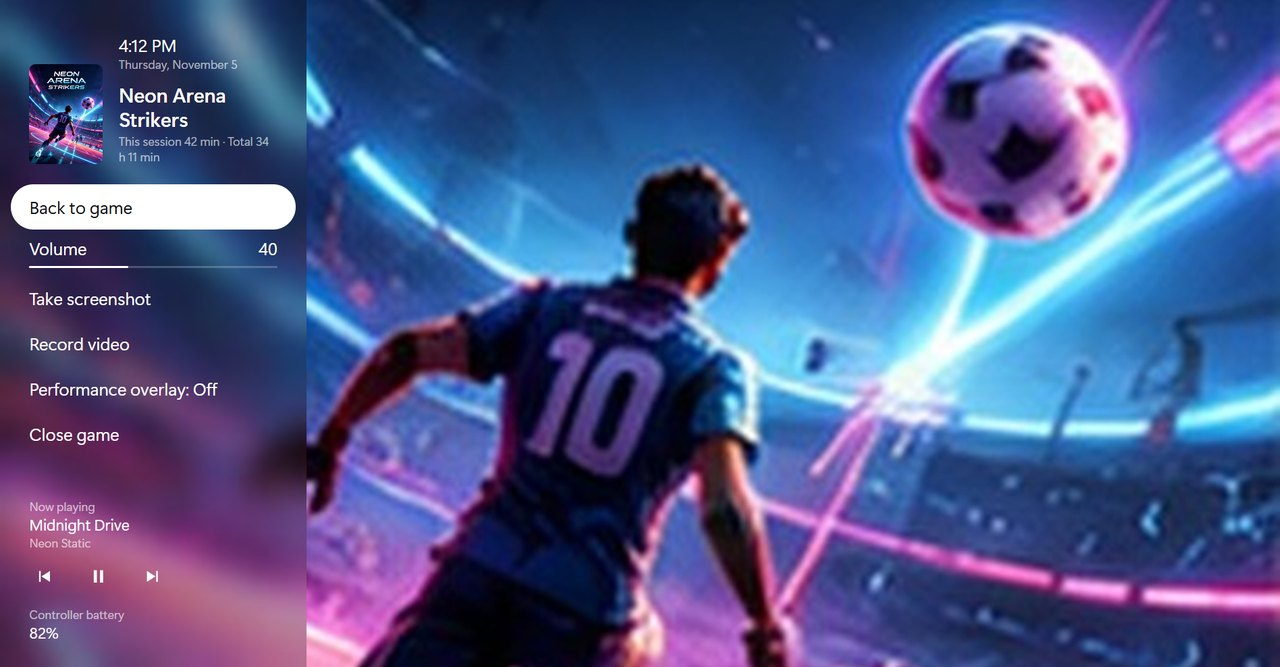
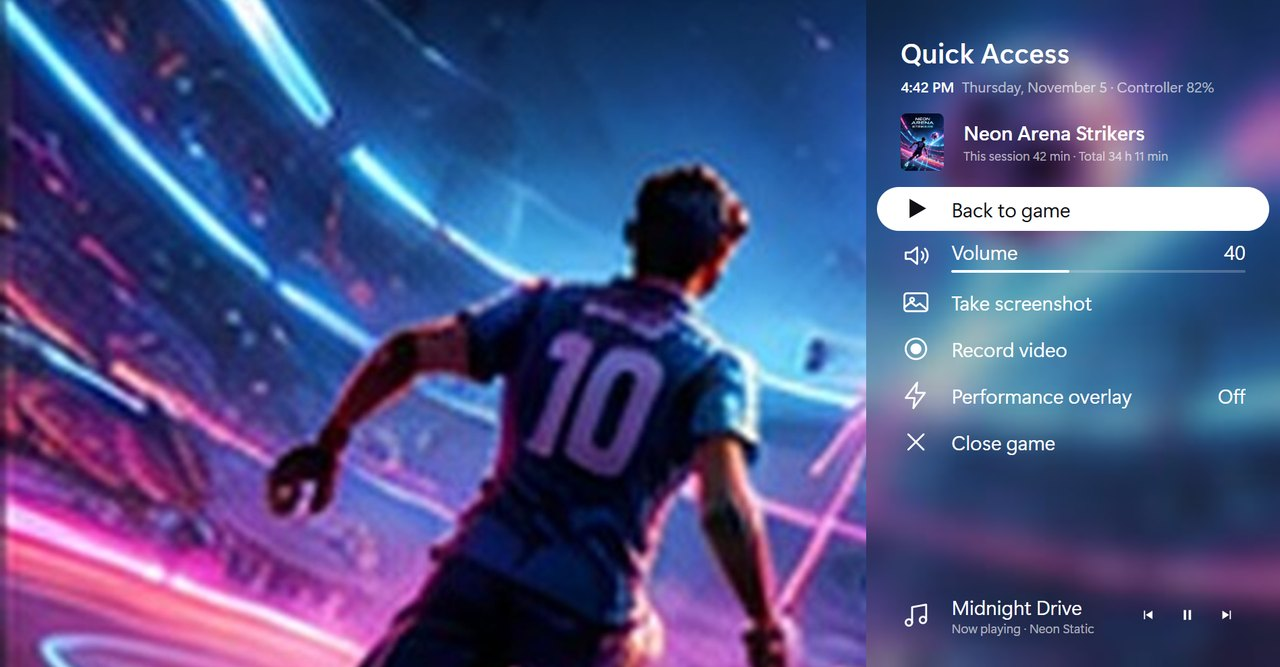
In-game menu is Quick Access: same panel, on the right, sliding from the right
The menu over a game now uses Quick Access's layout, sizes and icons: the time and controller battery under its title,
the game with its cover and playtime, then Back to game, volume, screenshot, recording, the performance overlay and
Close game, with the song at the bottom. The window sits at the right edge at Quick Access's width.

diff --git a/app/overlay.html b/app/overlay.html
@@ -5,48 +5,55 @@
 <title>Ultra Front End Overlay</title>
 <link rel="icon" href="icon.png">
 <style>
+  /* The in-game menu is Quick Access over a game: the frontend's own Quick Access panel (styles.css, .sp-*), on the right of
+     the screen, with the game's own choices on top. 1rem is 1vh of the screen while the window is 62% of the screen height
+     wide (as Quick Access is), and less when a portrait screen makes it narrower, so the panel's contents scale to fit. */
   * { box-sizing: border-box; }
-  /* 1rem is 1vh while the window is 46% of the screen height wide (as it is beside a landscape game), and less when a
-     portrait screen makes it narrower, so the panel's contents scale to fit */
-  html { font-size: min(1vh, 100vw / 45.8); }
+  html { font-size: min(1vh, 100vw / 62); }
   html, body { height: 100%; margin: 0; overflow: hidden; cursor: none; }
   body.glass { background: #1c1d1f center / 100% 100% no-repeat; }  /* the game behind, frosted, kept up to date (frontend.py) */
-  body { background: #1c1d1f; color: #fff; font-family: "Segoe UI Variable Display", "Segoe UI", sans-serif; opacity: 0; transition: opacity .16s ease-out; }
+  body { background: #1c1d1f; color: #fff; font-family: "Segoe UI Variable Display", "Segoe UI", sans-serif; opacity: 0; transition: opacity .16s ease-out;
+    --quiet: rgba(255, 255, 255, .62); --ink: #0e1014; }
   body.on { opacity: 1; }
-  #panel { position: absolute; inset: 0; padding: 5rem 1.6rem 3.6rem; display: flex; flex-direction: column; }  /* the window itself slides (frontend.py) */
-  #top { display: flex; gap: 2.4rem; padding: 0 2.8rem; align-items: flex-end; margin-bottom: 3rem; }
-  #cover { width: 11rem; height: 15rem; object-fit: cover; border-radius: 1rem; background: rgba(255, 255, 255, .06); flex: none; }
-  #head { min-width: 0; flex: 1; }
-  #clock { font-size: 2.6rem; }
-  #date { font-size: 1.8rem; color: rgba(255, 255, 255, .62); margin-bottom: 1.6rem; }
-  h1 { font-size: 3rem; line-height: 1.2; margin: 0; font-weight: 600; }
-  #stats { font-size: 1.8rem; color: rgba(255, 255, 255, .62); margin-top: .4rem; }
-  .item { display: flex; align-items: center; justify-content: space-between; min-height: 6.8rem; padding: .6rem 2.8rem; border-radius: 3.4rem; font-size: 2.6rem; }
-  .item.sel { background: #fff; color: #0e1014; }
-  .item.warn.sel { background: #dc2626; color: #fff; }  /* Close game: a red highlight, the label as the others */
-  .item small { font-size: 2.2rem; opacity: .7; }
-  .bar { height: .36rem; margin-top: 1rem; border-radius: .2rem; background: rgba(255, 255, 255, .22); }
+  #panel { position: absolute; inset: 0; padding: 5rem 1.6rem 4rem; display: flex; flex-direction: column; }  /* the window itself slides (frontend.py) */
+  h2 { margin: 0 3.6rem 1rem; font-size: 4.2rem; font-weight: 600; }
+  #time { margin: 0 3.6rem 2rem; font-size: 2.2rem; color: var(--quiet); white-space: nowrap; overflow: hidden; text-overflow: ellipsis; }
+  #time b { font-weight: 600; color: #fff; margin-right: 1.2rem; }
+  #game { display: flex; align-items: center; gap: 3rem; padding: .6rem 3.6rem 2.4rem; }
+  #cover { width: 6.4rem; height: 8.6rem; object-fit: cover; border-radius: .9rem; background: rgba(255, 255, 255, .06); flex: none; }
+  #game .text { min-width: 0; }
+  #title { font-size: 3rem; font-weight: 600; line-height: 1.2; overflow: hidden; display: -webkit-box; -webkit-line-clamp: 2; -webkit-box-orient: vertical; }
+  #stats { font-size: 1.9rem; color: var(--quiet); margin-top: .4rem; }
+  #menu { flex: 1; min-height: 0; display: flex; flex-direction: column; gap: .4rem; }
+  .row { display: flex; align-items: center; gap: 3rem; min-height: 6.6rem; padding: .6rem 3.6rem; border-radius: 3.8rem; font-size: 3rem; }
+  .row > svg { width: 4.6rem; height: 4.6rem; flex: none; }
+  .row.sel { background: #fff; color: var(--ink); }
+  .row.warn.sel { background: #dc2626; color: #fff; }  /* Close game: a red highlight, the label as the others */
+  .text { flex: 1; min-width: 0; }
+  .text > div { display: flex; justify-content: space-between; white-space: nowrap; overflow: hidden; text-overflow: ellipsis; }
+  .text small { display: block; font-size: 1.9rem; color: var(--quiet); white-space: nowrap; overflow: hidden; text-overflow: ellipsis; }
+  .row.sel .text small { color: rgba(14, 16, 20, .62); }
+  .value { font-weight: 400; }
+  .bar { height: .4rem; margin-top: .8rem; border-radius: .2rem; background: rgba(255, 255, 255, .22); }
   .bar i { display: block; height: 100%; border-radius: inherit; background: #fff; }
   .sel .bar { background: rgba(14, 16, 20, .2); }
-  .sel .bar i { background: #0e1014; }
-  .grow { flex: 1; min-width: 0; }
-  .grow > div:first-child { display: flex; justify-content: space-between; }
-  #info { margin-top: auto; padding: 2rem 2.8rem 0; display: flex; flex-direction: column; gap: 1.8rem; font-size: 2.3rem; }
-  #info small { display: block; font-size: 1.8rem; color: rgba(255, 255, 255, .62); }
-  #info div div { white-space: nowrap; overflow: hidden; text-overflow: ellipsis; }
-  #media { display: flex; gap: 1rem; margin: 1.2rem 0 0 -1.4rem; }
-  #media:empty { display: none; }
-  #media b { width: 7.2rem; height: 5.4rem; border-radius: 2.7rem; display: grid; place-items: center; }
-  #media svg { width: 2.8rem; height: 2.8rem; fill: currentColor; }
-  #media.sel b.cur { background: #fff; color: #0e1014; }
-  #foot { margin-top: 2.4rem; padding: 0 2.8rem; font-size: 1.7rem; color: rgba(255, 255, 255, .62); text-align: right; }
+  .sel .bar i { background: var(--ink); }
+  /* the song, at the bottom as in Quick Access: previous, play/pause, next */
+  .row.music { margin-top: auto; }
+  .row.music.sel { background: none; color: inherit; }
+  .row.music.sel .text small { color: var(--quiet); }
+  .mbtns { display: flex; gap: .6rem; flex: none; }
+  .mb { width: 5.4rem; height: 4.6rem; border-radius: 2.3rem; display: grid; place-items: center; }
+  .mb svg { width: 2.2rem; height: 2.2rem; fill: currentColor; }
+  .row.music.sel .mb.on { background: #fff; color: var(--ink); }
 </style>
 </head>
 <body>
 <div id="panel">
-  <div id="top"><img id="cover" alt="" onerror="this.style.visibility='hidden'"><div id="head"><div id="clock"></div><div id="date"></div><h1 id="title"></h1><div id="stats"></div></div></div>
+  <h2>Quick Access</h2>
+  <div id="time"></div>
+  <div id="game"><img id="cover" alt="" onerror="this.style.visibility='hidden'"><div class="text"><div id="title"></div><small id="stats"></small></div></div>
   <div id="menu"></div>
-  <div id="info"><div><div id="song"></div><div id="media"></div></div><div id="battery"></div></div>
 </div>
 <script>
 const $ = q => document.querySelector(q);
@@ -58,21 +65,38 @@ function frost(url) {
 }
 let items = [], sel = 0, busy = false;
 const hm = m => m < 60 ? `${m} min` : `${Math.floor(m / 60)} h ${m % 60} min`;
+const esc = t => String(t).replace(/[&<>"]/g, c => ({ '&': '&amp;', '<': '&lt;', '>': '&gt;', '"': '&quot;' })[c]);
 const post = action => fetch('/api/overlay', { method: 'POST', headers: { 'Content-Type': 'application/json', 'X-Frontend': '1' }, body: JSON.stringify({ action }) });
-// The music controls sit with the song at the bottom: the last stop going down, left and right between the three buttons.
-const ICONS = {
+// The frontend's icons (app.js ICONS), so this reads as the same menu
+const line = d => `<svg viewBox="0 0 24 24" fill="none" stroke="currentColor" stroke-width="1.5" stroke-linecap="round" stroke-linejoin="round">${d}</svg>`;
+const ICON = {
+  back: '<svg viewBox="0 0 24 24" fill="currentColor"><path d="M7 4.5v15l13-7.5z"/></svg>',
+  volume: line('<path d="M4 9.5v5h4l5 4v-13l-5 4z"/><path d="M16.5 9a4 4 0 0 1 0 6"/><path d="M19 6.5a8 8 0 0 1 0 11"/>'),
+  mute: line('<path d="M4 9.5v5h4l5 4v-13l-5 4z"/><path d="M17 9.5l5 5"/><path d="M22 9.5l-5 5"/>'),
+  save: line('<path d="M12 4v11"/><path d="M7 10.5l5 5 5-5"/><path d="M5 20h14"/>'),
+  load: line('<path d="M12 15V4"/><path d="M7 8.5l5-5 5 5"/><path d="M5 20h14"/>'),
+  shot: line('<rect x="3" y="5" width="18" height="14" rx="2"/><circle cx="9" cy="10" r="1.5"/><path d="M3 16l5-4 4 3 3-2 6 5"/>'),
+  record: line('<circle cx="12" cy="12" r="8"/><circle cx="12" cy="12" r="3.5" fill="currentColor"/>'),
+  hud: line('<path d="M13 2L4 14h7l-1 8 9-12h-7z"/>'),
+  close: line('<path d="M6 6l12 12M18 6L6 18"/>'),
+  music: line('<path d="M9 18V6l11-2v12"/><circle cx="6.5" cy="18" r="2.5"/><circle cx="17.5" cy="16" r="2.5"/>'),
+};
+const MEDIA = {
   prev: '<svg viewBox="0 0 24 24"><path d="M6 5h2v14H6zM20 5v14L9 12z"/></svg>',
   play: '<svg viewBox="0 0 24 24"><path d="M7 4v16l13-8z"/></svg>',
   pause: '<svg viewBox="0 0 24 24"><path d="M6 4h4v16H6zM14 4h4v16h-4z"/></svg>',
   next: '<svg viewBox="0 0 24 24"><path d="M16 5h2v14h-2zM4 5v14l11-7z"/></svg>'
 };
-let music = null, mediaSel = 1;  // music: {playing} while Windows shows a song; mediaSel: previous, play/pause, next
-function draw() {
-  $('#menu').innerHTML = items.map((it, i) => it.media ? '' : `<div class="item${it.warn ? ' warn' : ''}${i === sel ? ' sel' : ''}" data-i="${i}">${it.volume ? `<div class="grow"><div>Volume<span>${volume}</span></div><div class="bar"><i style="width:${volume}%"></i></div></div>` : it.label}</div>`).join('');
-  const box = $('#media');
-  box.className = items[sel]?.media ? 'sel' : '';
-  box.innerHTML = music ? [ICONS.prev, music.playing ? ICONS.pause : ICONS.play, ICONS.next].map((svg, i) => `<b class="${i === mediaSel ? 'cur' : ''}">${svg}</b>`).join('') : '';
+// music: the song Windows shows ({title, artist, playing}) or null; mediaSel: previous, play/pause, next
+let music = null, mediaSel = 1, volume = null, muted = false;
+function rowHTML(it, i) {
+  const on = i === sel ? ' sel' : '';
+  if (it.volume) return `<div class="row${on}" data-i="${i}">${muted ? ICON.mute : ICON.volume}<div class="text"><div>Volume<span class="value">${muted ? 'Muted' : volume}</span></div><div class="bar"><i style="width:${muted ? 0 : volume}%"></i></div></div></div>`;
+  if (it.media) return `<div class="row music${on}" data-i="${i}">${ICON.music}<div class="text"><div>${esc(music.title)}</div><small>${esc([music.playing ? 'Now playing' : 'Paused', music.artist].filter(Boolean).join(' · '))}</small></div>`
+    + `<div class="mbtns">${[MEDIA.prev, music.playing ? MEDIA.pause : MEDIA.play, MEDIA.next].map((svg, j) => `<span class="mb${j === mediaSel ? ' on' : ''}">${svg}</span>`).join('')}</div></div>`;
+  return `<div class="row${it.warn ? ' warn' : ''}${on}" data-i="${i}">${ICON[it.icon] || ''}<div class="text"><div>${esc(it.label)}${it.value ? `<span class="value">${esc(it.value)}</span>` : ''}</div></div></div>`;
 }
+function draw() { $('#menu').innerHTML = items.map(rowHTML).join(''); }
 function media() {
   const action = ['media-prev', 'media-play', 'media-next'][mediaSel];
   post(action);
@@ -92,7 +116,6 @@ function act(name) {
   else if (name === 'back' || name === 'dismiss') return go(items[0]);  // dismiss: View + Start again, from the helper
   draw();
 }
-let volume = null;
 // 1% a press. Held, the press repeats (about 9 a second) and the steps grow, so a long hold crosses the range in a few seconds.
 const volumeStep = () => {
   const t = performance.now();
@@ -104,7 +127,7 @@ async function setVolume(delta) {
   try {
     const r = await (await fetch('/api/volume', delta === undefined ? { cache: 'no-store' } : { method: 'POST', headers: { 'Content-Type': 'application/json', 'X-Frontend': '1' }, body: JSON.stringify({ delta }) })).json();
     if (r.volume == null) return;
-    volume = r.volume;
+    volume = r.volume; muted = !!r.muted;
     if (!items.some(x => x.volume)) { items.splice(1, 0, { volume: true }); if (sel >= 1) sel++; }  // the highlight stays on the same item
     draw();
   } catch {}
@@ -114,7 +137,7 @@ const slide = show => Promise.race([window.pywebview?.api?.slide?.(show), new Pr
 async function go(it) {
   if (busy || !it) return;
   if (it.hud) {  // Off, Compact, Full: the menu stays open
-    try { const r = await (await fetch('/api/hud', { method: 'POST', headers: { 'Content-Type': 'application/json', 'X-Frontend': '1' }, body: '{}' })).json(); it.label = `Performance overlay: ${title(r.mode)}`; draw(); } catch {}
+    try { const r = await (await fetch('/api/hud', { method: 'POST', headers: { 'Content-Type': 'application/json', 'X-Frontend': '1' }, body: '{}' })).json(); it.value = title(r.mode); draw(); } catch {}
     return;
   }
   if (it.stay) {  // the menu stays open; say that it happened
@@ -152,25 +175,18 @@ addEventListener('keydown', e => {
 async function song() {  // one at a time: each asks Windows through a PowerShell that can be slow
   clearTimeout(song.t);
   try {
-    const n = await (await fetch('/api/nowplaying', { cache: 'no-store' })).json(), box = $('#song');
-    box.textContent = '';
-    music = n.title ? { playing: !!n.playing } : null;  // a paused song stays, so it can be played again
+    const n = await (await fetch('/api/nowplaying', { cache: 'no-store' })).json();
+    music = n.title ? { title: n.title, artist: n.artist || '', playing: !!n.playing } : null;  // a paused song stays, so it can be played again
     const at = items.findIndex(x => x.media);
     if (music && at < 0) items.push({ media: true });
     if (!music && at >= 0) { items.splice(at, 1); if (sel >= items.length) sel = items.length - 1; }
     draw();
-    if (!music) return;
-    const label = document.createElement('small'), t = document.createElement('div');
-    label.textContent = music.playing ? 'Now playing' : 'Paused'; t.textContent = n.title;
-    box.append(label, t);
-    if (n.artist) { const a = document.createElement('small'); a.textContent = n.artist; box.append(a); }
   } catch {} finally { song.t = setTimeout(song, 5000); }
 }
-let zone = {};  // the profile's time zone, as the frontend's clock uses
+let zone = {}, battery = null;  // the profile's time zone, as the frontend's clock uses
 const clock = () => {
   const d = new Date();
-  $('#clock').textContent = d.toLocaleTimeString('en-US', { hour: 'numeric', minute: '2-digit', ...zone });
-  $('#date').textContent = d.toLocaleDateString('en-US', { weekday: 'long', day: 'numeric', month: 'long', ...zone });
+  $('#time').innerHTML = `<b>${esc(d.toLocaleTimeString('en-US', { hour: 'numeric', minute: '2-digit', ...zone }))}</b>${esc(d.toLocaleDateString('en-US', { weekday: 'long', day: 'numeric', month: 'long', ...zone }))}${battery != null ? ` · Controller ${battery}%` : ''}`;
 };
 fetch('/api/profile', { cache: 'no-store' }).then(r => r.json()).then(p => {
   const z = p.timezone;
@@ -180,16 +196,17 @@ fetch('/api/profile', { cache: 'no-store' }).then(r => r.json()).then(p => {
   const s = await fetch('/api/overlay', { cache: 'no-store' }).then(r => r.ok ? r.json() : {}).catch(() => ({}));  // the menu still works without the game's details
   $('#title').textContent = s.title || '';
   $('#stats').textContent = s.session >= 0 ? `This session ${hm(s.session)}` + (s.minutes ? ` · Total ${hm(s.minutes)}` : '') : '';
-  if (s.cover) $('#cover').src = s.cover; else $('#cover').style.visibility = 'hidden';
-  items = [{ label: 'Back to game', action: 'resume' },
-    ...(s.savestate ? [{ label: 'Save state', action: 'savestate', stay: true, done: 'State saved' }, { label: 'Load state', action: 'loadstate', stay: true, done: 'State loaded' }] : []),
-    { label: 'Take screenshot', action: 'screenshot' },
-    { label: s.recording ? 'Stop recording' : 'Record video', action: 'record' },
-    ...(s.hud ? [{ label: `Performance overlay: ${title(s.hud)}`, hud: true }] : []),  // an extra: only once PresentMon is installed
-    { label: 'Close game', action: 'close', warn: true }];
-  if (s.battery != null) $('#battery').innerHTML = `<small>Controller battery</small><div>${s.battery}%</div>`;
+  if (s.cover) $('#cover').src = s.cover; else $('#cover').style.display = 'none';
+  if (!s.title) $('#game').style.display = 'none';
+  battery = s.battery ?? null;
+  items = [{ label: 'Back to game', action: 'resume', icon: 'back' },
+    ...(s.savestate ? [{ label: 'Save state', action: 'savestate', stay: true, done: 'State saved', icon: 'save' }, { label: 'Load state', action: 'loadstate', stay: true, done: 'State loaded', icon: 'load' }] : []),
+    { label: 'Take screenshot', action: 'screenshot', icon: 'shot' },
+    { label: s.recording ? 'Stop recording' : 'Record video', action: 'record', icon: 'record' },
+    ...(s.hud ? [{ label: 'Performance overlay', value: title(s.hud), hud: true, icon: 'hud' }] : []),  // an extra: only once PresentMon is installed
+    { label: 'Close game', action: 'close', warn: true, icon: 'close' }];
   if (!('hud' in s)) fetch('/api/hud', { cache: 'no-store' }).then(r => r.json()).then(r => {  // no state: asked for here, never guessed
-    if (r.fps && r.mode && !items.some(x => x.hud)) { items.splice(items.length - 1, 0, { label: `Performance overlay: ${title(r.mode)}`, hud: true }); draw(); }
+    if (r.fps && r.mode && !items.some(x => x.hud)) { items.splice(items.findIndex(x => x.action === 'close'), 0, { label: 'Performance overlay', value: title(r.mode), hud: true, icon: 'hud' }); draw(); }
   }).catch(() => {});
   draw(); clock(); setInterval(clock, 5000); setVolume();
   document.body.classList.add('on');

diff --git a/frontend.py b/frontend.py
@@ -194,8 +194,9 @@ def take_focus(overlay_hwnd, seconds=0.0, game_hwnd=None):
 
 
 def overlay_slide(show, ms=190):
-    """Slide the overlay in from (or out to) the left edge of the game's screen. The window moves and a region clips it to
-    that screen, so no part of it shows on a monitor beside this one. Moving a window doesn't redraw the page, so it's smooth."""
+    """Slide the overlay in from (or out to) the right edge of the game's screen, as Quick Access does in the frontend. The
+    window moves and a region clips it to that screen, so no part of it shows on a monitor beside this one. Moving a window
+    doesn't redraw the page, so it's smooth."""
     import ctypes
     hwnd = OVL.get("hwnd")
     if not hwnd:
@@ -209,8 +210,8 @@ def overlay_slide(show, ms=190):
         part = int(round(w * (ease if show else 1 - ease)))  # how much of the panel is on screen
         if show:  # a sliver at least: Chromium stops drawing a window that is wholly off the screen
             part = max(part, 2)
-        user32.SetWindowPos(ctypes.c_void_p(hwnd), ctypes.c_void_p(-1), x - (w - part), y, w, h, 0x0050)  # TOPMOST, SHOWWINDOW | NOACTIVATE
-        user32.SetWindowRgn(ctypes.c_void_p(hwnd), gdi32.CreateRectRgn(w - part, 0, w, h), True)
+        user32.SetWindowPos(ctypes.c_void_p(hwnd), ctypes.c_void_p(-1), x + (w - part), y, w, h, 0x0050)  # TOPMOST, SHOWWINDOW | NOACTIVATE
+        user32.SetWindowRgn(ctypes.c_void_p(hwnd), gdi32.CreateRectRgn(0, 0, part, h), True)
         if t >= 1:
             break
         time.sleep(0.008)
@@ -341,7 +342,8 @@ def overlay():
     webview_args()
     x, y, w, h = game_screen()
     scale = ctypes.windll.user32.GetDpiForSystem() / 96 or 1
-    ow = min(int(h * .46), int(w * .42))  # beside the game: 46% of the height wide, but never most of a portrait screen
+    ow = min(int(h * .62), w)  # Quick Access's width (62% of the height), but never wider than a portrait screen
+    x += w - ow  # on the right of the screen, as Quick Access is in the frontend
     user32 = ctypes.windll.user32
     user32.GetForegroundWindow.restype = ctypes.c_void_p
     game = user32.GetForegroundWindow()  # the game's window, for games that can't give up the focus (below)

diff --git a/README.md b/README.md
@@ -116,8 +116,8 @@ and a UI scale setting.
   <sub>Quick Access (<b>View</b>)</sub>
 </td>
 <td align="center">
-  <img src="assets/screens/ingame.jpg" alt="The in-game menu beside a game: back to game, volume, screenshot, recording, close game and music" width="100%"><br>
-  <sub>In-game menu</sub>
+  <img src="assets/screens/ingame.jpg" alt="Quick Access over a game: back to game, volume, screenshot, recording, close game and music" width="100%"><br>
+  <sub>Quick Access in a game</sub>
 </td>
 </tr>
 <tr>
